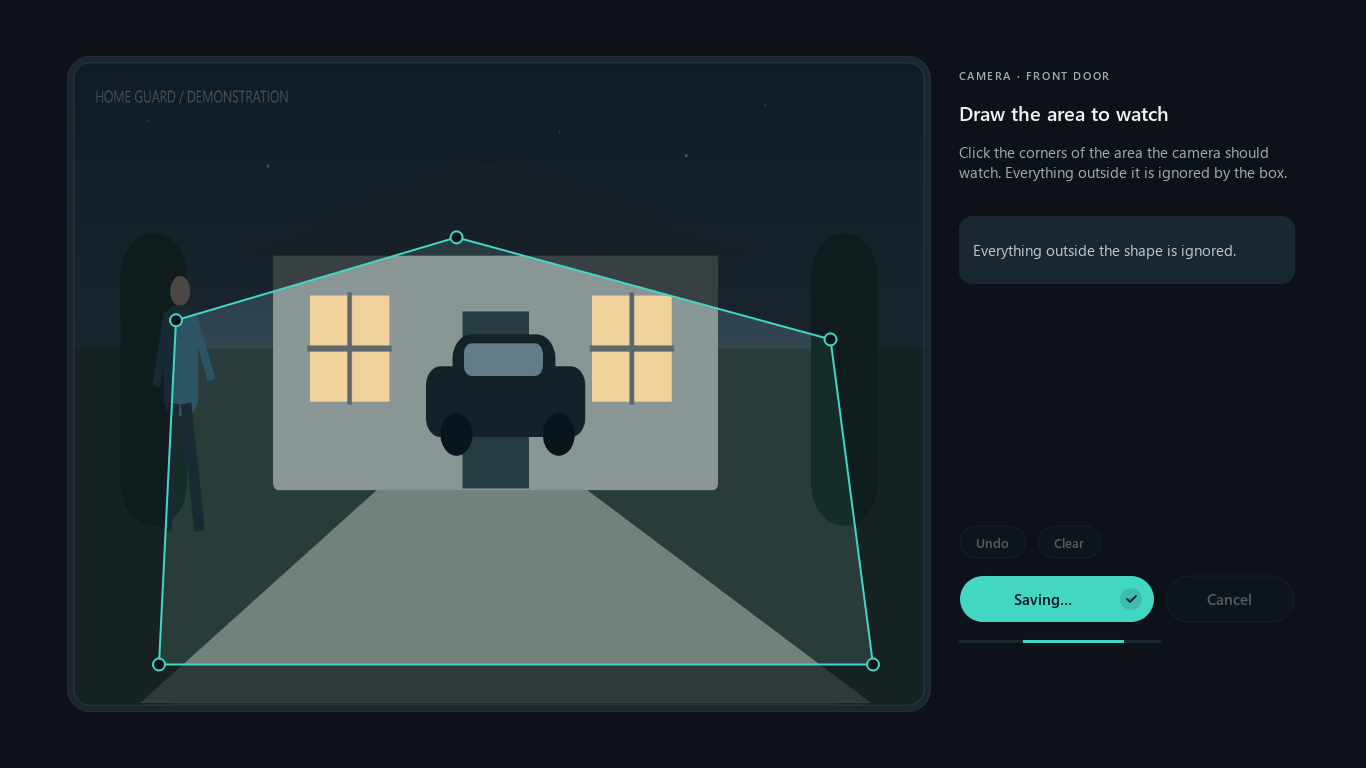
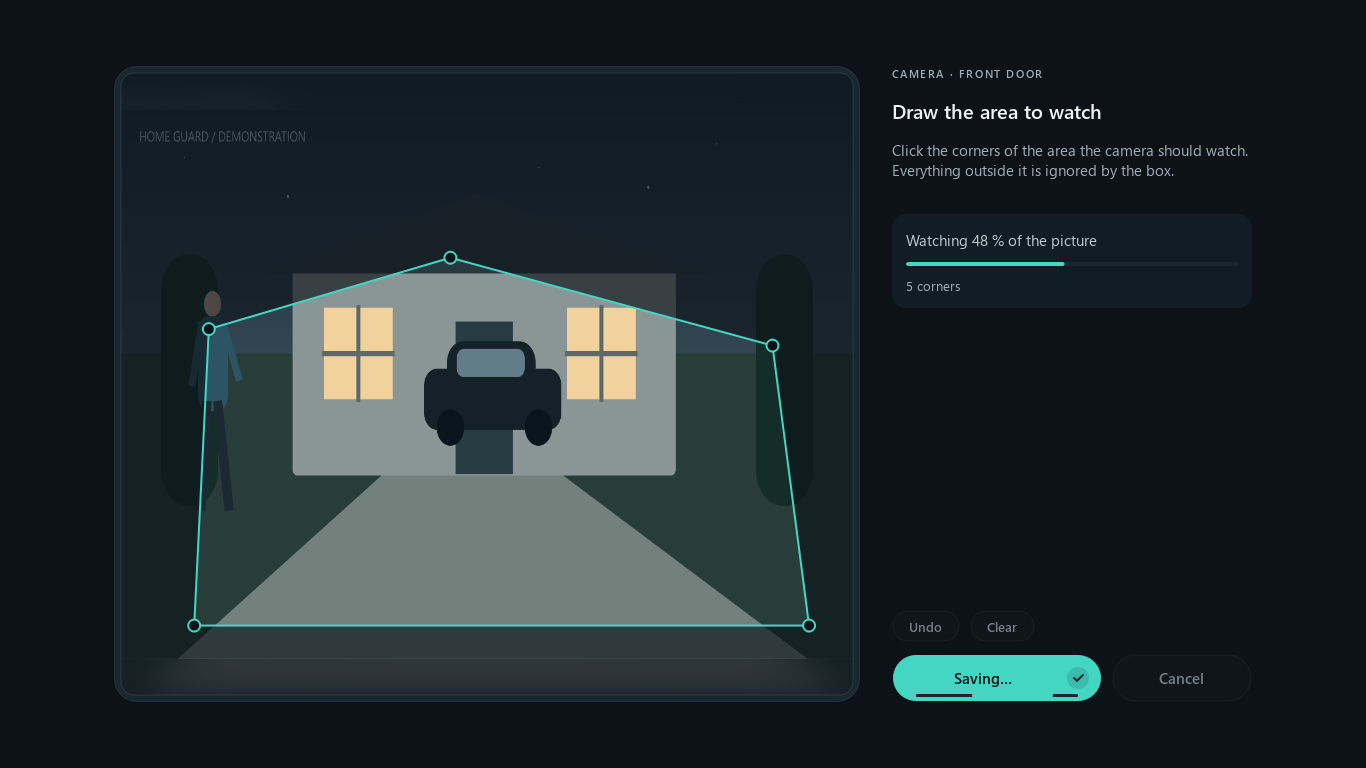
Expand watch-area stage and refresh reviewed screenshots

diff --git a/home_guard_project/box/app/zone_editor.py b/home_guard_project/box/app/zone_editor.py
@@ -337,9 +337,12 @@ class ZoneStage(QWidget):
         p = QPainter(self); p.setRenderHints(QPainter.RenderHint.Antialiasing | QPainter.RenderHint.SmoothPixmapTransform)
         outer = QRectF(self.rect()).adjusted(.5, .5, -.5, -.5)
         p.setBrush(QColor(t['raised'])); p.setPen(QPen(alpha(t['text'], .08), 1)); p.drawRoundedRect(outer, 22, 22)
-        core = self.core_rect(); clip = QPainterPath(); clip.addRoundedRect(core, 16, 16); p.setClipPath(clip)
+        core = self.core_rect(); clip = QPainterPath(); clip.addRoundedRect(core, 13, 13); p.setClipPath(clip)
         if not self.pix.isNull():
-            p.drawPixmap(core, self.ambient, QRectF(self.ambient.rect()))
+            scale = max(core.width()/self.ambient.width(), core.height()/self.ambient.height())
+            w, h = self.ambient.width()*scale, self.ambient.height()*scale
+            ambient_rect = QRectF(core.center().x()-w/2, core.center().y()-h/2, w, h)
+            p.drawPixmap(ambient_rect, self.ambient, QRectF(self.ambient.rect()))
             p.fillRect(core, alpha(t['bg'], .65))
             rect = self.picture_rect(); p.drawPixmap(rect, self.pix, QRectF(self.pix.rect()))
             shape = polygon_path(self.points, rect)
@@ -365,11 +368,15 @@ class ZoneStage(QWidget):
             p.setOpacity(1.)
         else:
             p.setPen(QColor(t['muted'])); p.drawText(core, Qt.AlignmentFlag.AlignCenter, tr('camera_no_photo'))
-        p.setClipping(False); p.setBrush(Qt.BrushStyle.NoBrush); p.setPen(QPen(alpha(t['text'], .1), 1)); p.drawRoundedRect(core, 16, 16)
+        p.setClipping(False); p.setBrush(Qt.BrushStyle.NoBrush); p.setPen(QPen(alpha(t['text'], .1), 1)); p.drawRoundedRect(core, 13, 13)
 
 
 class ZoneEditorDialog(QDialog):
     zone_saved = Signal(list)
+
+    @staticmethod
+    def opening_size(available):
+        return QSize(max(1100, round(available.width()*.88)), max(700, round(available.height()*.88)))
 
     def __init__(self, controls, name, pixmap, points=(), parent=None):
         super().__init__(parent)
@@ -385,13 +392,13 @@ class ZoneEditorDialog(QDialog):
         t = colors(self)
         self.setStyleSheet(f'QDialog {{ background: {t["bg"]}; }} QLabel {{ background: transparent; color: {t["secondary"]}; border: none; font-size: 11.25pt; }}')
         available = self.screen().availableGeometry()
-        self.setMinimumSize(min(1100, available.width()-32), min(700, available.height()-48))
-        self.resize(min(1280, available.width()-32), min(800, available.height()-48))
-        root = QHBoxLayout(self); root.setContentsMargins(24, 24, 28, 24); root.setSpacing(28)
-        self.stage = ZoneStage(pixmap, points, self); root.addWidget(self.stage, 72)
-        column = QWidget(self); column.setMinimumWidth(282)
+        self.setMinimumSize(1100, 700)
+        self.resize(self.opening_size(available.size()))
+        root = QHBoxLayout(self); root.setContentsMargins(32, 32, 32, 32); root.setSpacing(32)
+        self.stage = ZoneStage(pixmap, points, self); root.addWidget(self.stage, 1)
+        column = QWidget(self); column.setFixedWidth(360)
         column.setStyleSheet('background: transparent;')
-        root.addWidget(column, 28)
+        root.addWidget(column)
         side = QVBoxLayout(column); side.setContentsMargins(0, 0, 0, 0); side.setSpacing(16)
         self.eyebrow = QLabel(tr('camera_zone_eyebrow', camera=name.replace('_', ' ').upper()).upper())
         self.eyebrow.setTextFormat(Qt.TextFormat.PlainText); self.eyebrow.setWordWrap(True)
@@ -438,7 +445,7 @@ class ZoneEditorDialog(QDialog):
         buttons = QHBoxLayout(); buttons.setSpacing(10); buttons.addWidget(self.save_button, 3); buttons.addWidget(self.cancel_button, 2)
         footer.addLayout(buttons); side.addLayout(footer)
         self.progress = QProgressBar(self.save_button); self.progress.setRange(0, 0); self.progress.setTextVisible(False); self.progress.setFixedHeight(3)
-        self.progress.setStyleSheet(f'QProgressBar {{ background: {t["raised"]}; border: none; border-radius: 1px; }} QProgressBar::chunk {{ background: {t["action"]}; }}')
+        self.progress.setStyleSheet(f'QProgressBar {{ background: {t["raised"]}; border: none; border-radius: 1px; height: 3px; min-height: 3px; max-height: 3px; }} QProgressBar::chunk {{ background: {t["action"]}; border-radius: 1px; }}')
         self.progress.hide()
         self.save_button.setProperty('busyIndicator', 'bar'); self.save_button._busy_bar = self.progress
         self.save_button.clicked.connect(self.save); self.cancel_button.clicked.connect(self.reject)

diff --git a/tests/box/test_app_zones.py b/tests/box/test_app_zones.py
@@ -3,7 +3,7 @@ os.environ.setdefault('QT_QPA_PLATFORM', 'offscreen')
 
 import unittest
 from unittest.mock import Mock
-from PySide6.QtCore import QPointF, Qt
+from PySide6.QtCore import QPointF, QSize, Qt
 from PySide6.QtGui import QColor, QPixmap
 from PySide6.QtTest import QTest
 from PySide6.QtWidgets import QApplication
@@ -64,6 +64,8 @@ class ZoneEditorTests(unittest.TestCase):
         for widget in (self.dialog.stage, self.dialog.save_button, self.dialog.cancel_button, self.dialog.clear_button, self.dialog.undo_button):
             self.assertFalse(widget.isEnabled())
         self.assertTrue(self.dialog.progress.isVisible())
+        self.assertEqual(self.dialog.progress.height(), 3)
+        self.assertTrue(self.dialog.save_button.rect().contains(self.dialog.progress.geometry()))
         self.dialog.future.result(timeout=3); self.dialog.poll()
         self.controls.set_zone.assert_called_once_with('yard', [[.1235, .2346], [.9, .2], [.5, .9]])
         QTest.qWait(motion.TOGGLE_MS + 30)
@@ -95,8 +97,8 @@ class ZoneEditorTests(unittest.TestCase):
         self.assertEqual(self.dialog.warning.text(), '')
 
     def test_coverage_and_footer_alignment_in_each_state(self):
-        for size in ((1100, 700), (1280, 800)):
-            self.dialog.resize(*size)
+        for screen in (QSize(1366, 768), QSize(1920, 1080)):
+            self.dialog.resize(self.dialog.opening_size(screen))
             for points in ([], [[.1, .1]], [[0, 0], [1, 0], [1, .46], [0, .46]]):
                 self.dialog.stage.set_points(points)
                 QTest.qWait(motion.PANE_MS + 30)
@@ -105,6 +107,15 @@ class ZoneEditorTests(unittest.TestCase):
                 bottom = self.dialog.save_button.mapTo(self.dialog, self.dialog.save_button.rect().bottomLeft())
                 self.assertEqual(top.y(), stage.top())
                 self.assertEqual(bottom.y(), stage.bottom())
+                self.assertEqual(self.dialog.eyebrow.parentWidget().width(), 360)
+                self.assertEqual(stage.width(), self.dialog.width()-360-32*3)
+                self.assertEqual(stage.top(), 32)
+                self.assertEqual(stage.bottom(), self.dialog.height()-33)
+                self.assertLessEqual(self.dialog.width(), screen.width())
+                self.assertLessEqual(self.dialog.height(), screen.height())
+                picture = self.dialog.stage.picture_rect()
+                self.assertTrue(self.dialog.stage.core_rect().contains(picture))
+                self.assertAlmostEqual(picture.width()/picture.height(), 4/3)
                 self.assertEqual(self.dialog.undo_button.height(), 32)
                 self.assertEqual(self.dialog.clear_button.height(), 32)
                 self.assertEqual(self.dialog.save_button.y() - self.dialog.undo_button.geometry().bottom() - 1, 12)
@@ -150,7 +161,8 @@ class ZoneEditorTests(unittest.TestCase):
         self.assertEqual(len(stage.points), 3)
         self.assertTrue(stage.closed)
         QTest.mousePress(stage, Qt.MouseButton.LeftButton, pos=first.toPoint())
-        QTest.mouseMove(stage, stage.picture_rect().bottomRight().toPoint())
+        # Cross the picture boundary rather than rounding a fractional edge inward.
+        QTest.mouseMove(stage, (stage.picture_rect().bottomRight() + QPointF(20, 20)).toPoint())
         QTest.mouseRelease(stage, Qt.MouseButton.LeftButton)
         self.assertEqual(stage.points[0], [1., 1.])
 

diff --git a/docs/ui/capture.py b/docs/ui/capture.py
@@ -94,7 +94,7 @@ def capture_zones():
     sys.path.insert(0, str(ROOT))
     from types import SimpleNamespace
     from threading import Event
-    from PySide6.QtCore import Qt
+    from PySide6.QtCore import Qt, QSize
     from PySide6.QtGui import QColor, QFont, QFontDatabase, QPainter, QPixmap
     from PySide6.QtTest import QTest
     from PySide6.QtWidgets import QApplication, QWidget
@@ -123,8 +123,7 @@ def capture_zones():
             dialog = ZoneEditorDialog(controls, 'front_door', picture(0, '4:3'), zone, host)
             # Qt's synthetic offscreen screen is 800x800. Set the actual review
             # screen bounds explicitly; production uses availableGeometry().
-            dialog.setMinimumSize(1100, 700)
-            dialog.resize(min(1280, width-48), min(800, height-64))
+            dialog.resize(dialog.opening_size(QSize(width, height)))
             dialog.show()
             QTest.qWait(motion.PANE_MS + 40)
             if state == 'error':

diff --git a/docs/ui/HANDOFF.md b/docs/ui/HANDOFF.md
@@ -13,6 +13,10 @@
 9. Fourteen synthetic screenshots at 1366×768 and 1920×1080 were opened and reviewed; see [SCREENSHOTS.md](SCREENSHOTS.md); RTL geometry is tested and copy remains in the existing English-only catalog.
 10. No real box, camera, SSH or Telegram was contacted; real restart/masking, remote latency and native desktop animation remain unverified; engine scripts/runtime were not edited after the merge.
 
+11. Round Z2: merged `origin/beelink-collector-box` (`a0afb2a`); thumbnails share the image crop transform, dim outside with 60% palette background, and show 13px status with a 6px dot (`53f4dab`).
+12. Round Z2: aligned the column to the stage, added animated polygon coverage and corner count, unified warning/error chips, and kept Undo/Clear legible at 32px (`8e10987`).
+13. Round Z2: dialog opens at 88% of the screen (minimum 1100x700), with a 360px column and 32px margins/gap; all 14 zone screenshots recaptured and reviewed at both sizes; 587 box tests pass; no push or real box/camera/Telegram contact.
+
 ## Earlier handoff
 
 Built on `box-app-ui`, without pushing or merging. The five protected engine files are unchanged: `setup_customer.ps1`, `setup_network.ps1`, `check_box.ps1`, `build_exe.ps1`, and `inference.py`.
